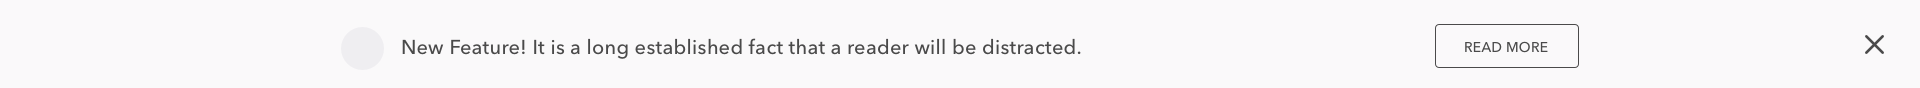
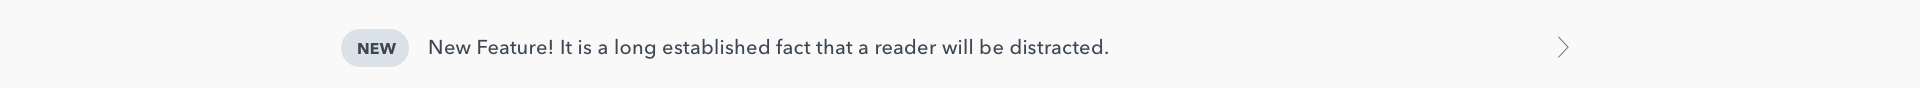
add notifiction 2

diff --git a/stitches.html b/stitches.html
@@ -8,98 +8,12 @@
     <title>Stitches</title>
   </head>
   <body>
-<section class="font-sans container m-auto max-w-xl py-8">
-  <div class="flex py-3">
-    <div class="w-1/8">
-      <a href="#" class="block rounded-full h-12 w-12 mr-2 bg-grey-light"></a>
-    </div>
-    <div class="w-7/8">
-      <div class="flex justify-between">
-        <div>
-          <span class="font-bold"><a href="#" class="text-black">Natalie Rushman</a></span>
-          <span class="text-grey-dark">@natalie</span>
-          <span class="text-grey-dark">·</span>
-          <span class="text-grey-dark">May 26</span>
-        </div>
-        <div>
-          <a href="#" class="text-grey-dark hover:text-black"><i class="fa fa-chevron-down"></i></a>
-        </div>
+    <section class="bg-grey-lightest text-grey-darkest py-4 lg:px-4" role="alert">
+      <div class="items-center flex leading-none">
+        <div class="rounded-full h-6 w-6 mr-2 bg-grey-light"></div>
+        <span class="mr-2 text-left mr-auto">New Feature! It is a long established fact that a reader will be distracted.</span>
+        <span class="opacity-75 h-4 w-4"><i class="fas fa-times"></i></span>
       </div>
-      <div class="">
-        <p class="my-3 text-sm">Many desktop publishing packages and web page editors now use Lorem Ipsum as their default model text, and a search for 'lorem ipsum' will uncover many web sites still in their infancy.</p>
-        <div class="pb-2">
-          <span class="mr-4">
-            <a href="#" class="text-grey no-underline hover:text-black">
-              <i class="fa fa-comment fa-md mr-1"></i>2
-            </a>
-          </span>
-          <span>
-            <a href="#" class="text-grey no-underline hover:text-black">
-              <i class="fa fa-envelope fa-md"></i>
-            </a>
-          </span>
-        </div>
-        <hr class="border-b">
-        <div class="flex py-3">
-          <div class="w-1/8">
-            <a href="#" class="block rounded-full h-12 w-12 mr-2 bg-grey-light"></a>
-          </div>
-          <div class="w-7/8">
-            <div>
-              <span class="font-bold"><a href="#" class="text-black">Natalie Rushman</a></span>
-              <span class="text-grey-dark">@natalie</span>
-              <span class="text-grey-dark">·</span>
-              <span class="text-grey-dark">May 26</span>
-            </div>
-            <div class="">
-              <p class="my-3 text-sm">Many desktop publishing packages and web page editors now use Lorem Ipsum as their default model text, and a search for 'lorem ipsum' will uncover many web sites still in their infancy.</p>
-              <div class="pb-2">
-                <span class="mr-4">
-                  <a href="#" class="text-grey no-underline hover:text-black">
-                    <i class="fa fa-comment fa-md mr-1"></i>2
-                  </a>
-                </span>
-                <span>
-                  <a href="#" class="text-grey no-underline hover:text-black">
-                    <i class="fa fa-envelope fa-md"></i>
-                  </a>
-                </span>
-              </div>
-            </div>
-          </div>
-        </div>
-        <hr class="border-b">
-        <div class="flex py-3">
-          <div class="w-1/8">
-            <a href="#" class="block rounded-full h-12 w-12 mr-2 bg-grey-light"></a>
-          </div>
-          <div class="w-7/8">
-            <div>
-              <span class="font-bold"><a href="#" class="text-black">Natalie Rushman</a></span>
-              <span class="text-grey-dark">@natalie</span>
-              <span class="text-grey-dark">·</span>
-              <span class="text-grey-dark">May 26</span>
-            </div>
-            <div class="">
-              <p class="my-3 text-sm">Many desktop publishing packages and web page editors now use Lorem Ipsum as their default model text, and a search for 'lorem ipsum' will uncover many web sites still in their infancy.</p>
-              <div class="pb-2">
-                <span class="mr-4">
-                  <a href="#" class="text-grey no-underline hover:text-black">
-                    <i class="fa fa-comment fa-md mr-1"></i>2
-                  </a>
-                </span>
-                <span>
-                  <a href="#" class="text-grey no-underline hover:text-black">
-                    <i class="fa fa-envelope fa-md"></i>
-                  </a>
-                </span>
-              </div>
-            </div>
-          </div>
-        </div>
-      </div>
-    </div>
-  </div>
-</section>
+    </section>
   </body>
 </html>

diff --git a/templates/notification-1.html b/templates/notification-1.html
@@ -1,0 +1,7 @@
+<section class="bg-grey-lightest text-grey-darkest py-4 lg:px-4" role="alert">
+  <div class="container items-center flex max-w-lg m-auto leading-none">
+    <span class="flex rounded-full bg-grey-light uppercase px-2 py-1 text-xs font-bold mr-3">New</span>
+    <span class="mr-2 text-left mr-auto">New Feature! It is a long established fact that a reader will be distracted.</span>
+    <span class="opacity-75 h-4 w-4"><i class="fas fa-chevron-right"></i></span>
+  </div>
+</section>

diff --git a/templates/notification-2.html b/templates/notification-2.html
@@ -1,0 +1,7 @@
+<section class="bg-grey-lightest text-grey-darkest py-4 lg:px-4" role="alert">
+  <div class="items-center flex leading-none">
+    <div class="rounded-full h-6 w-6 mr-2 bg-grey-light"></div>
+    <span class="mr-2 text-left mr-auto">New Feature! It is a long established fact that a reader will be distracted.</span>
+    <span class="opacity-75 h-4 w-4"><i class="fas fa-times"></i></span>
+  </div>
+</section>
